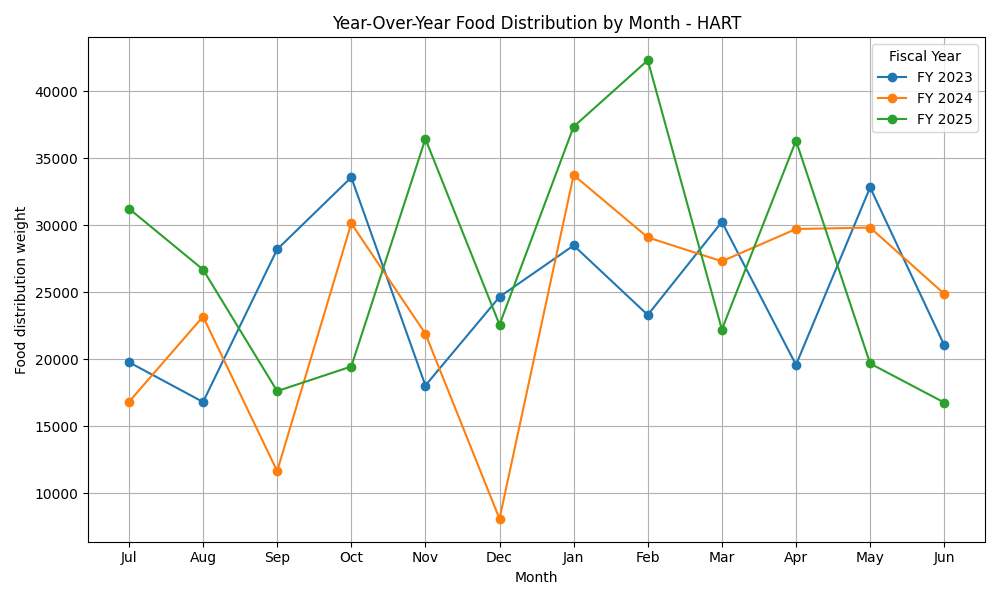
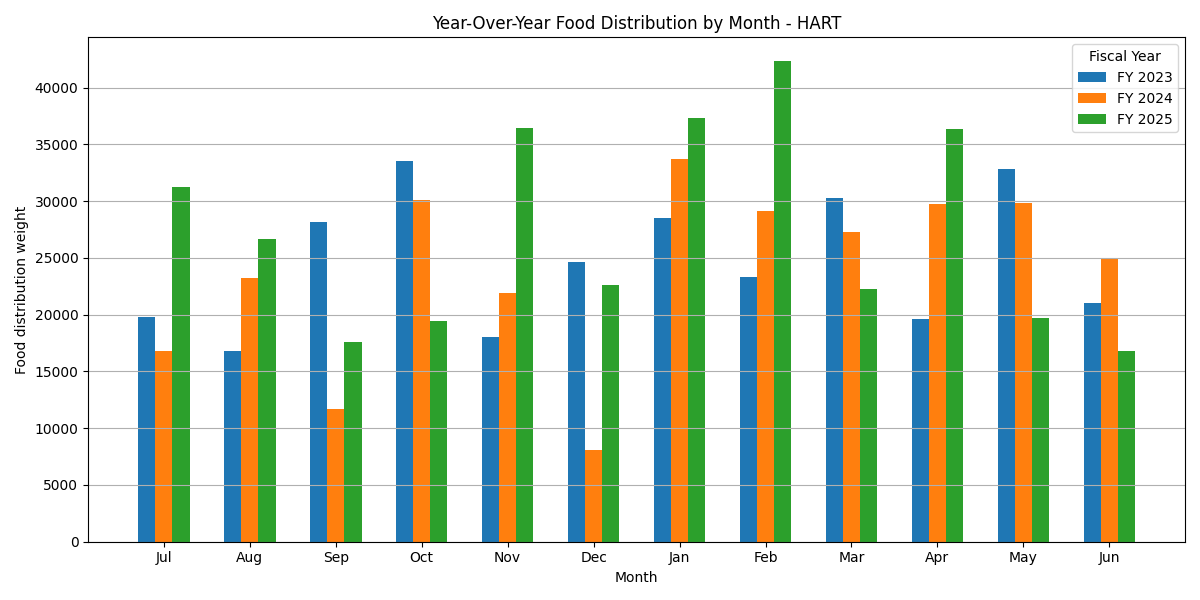
updated year over year plots to bar graphs

diff --git a/src/plot_year_over_year.py b/src/plot_year_over_year.py
@@ -31,26 +31,37 @@ def plot_all_counties():
     # we want to plot from Jul of one year to Jun of the next year
     month_pos = {7:0,8:1,9:2,10:3,11:4,12:5,1:6,2:7,3:8,4:9,5:10,6:11}
     month_labels = ['Jul', 'Aug', 'Sep', 'Oct', 'Nov', 'Dec', 'Jan', 'Feb', 'Mar', 'Apr', 'May', 'Jun']
+    bar_width = 0.20
+    x_base = list(range(12))
 
     for county in unique_counties:
         county_df = df[df["County"] == county].copy()
 
-        plt.figure(figsize=(10,6))
+        plt.figure(figsize=(12,6))
 
-        for fy in ['FY 2023', 'FY 2024', 'FY 2025']:
+        for i, fy in enumerate (['FY 2023', 'FY 2024', 'FY 2025']):
             fy_data = county_df[county_df['Fiscal Year'] == fy]
-            x = fy_data["Fiscal Month"].map(month_pos)
-            # here, each element of x is paired with each element of fy_data["Weight"],
-            # internally, i ranges from 0 to length of fy_data - 1, and
-            # this plots a point at x[i], fy_data["Weight"][i]
-            plt.plot(x, fy_data['Weight'], marker='o', label=fy)
 
-        plt.xticks(ticks=list(month_pos.values()), labels=month_labels)
+            # initialize y values for all months to 0, so missing data values are taken care of
+            y_values = [0] * 12
+            for index, row in fy_data.iterrows():
+                month_index = month_pos[row["Fiscal Month"]]
+                y_values[month_index] = row["Weight"]
+
+            # for each year, calculate list of all x positions where we want to plot a bar,
+            # positions are offset by (i - 1) * bar_width to group bars for year side-by-side 
+            # ex. positions for 2023 are shifted left by bar_width,
+            # Jul 2023, Aug 2023, . . . would be 0 - bar_width, 1 - bar_width, . . . 
+            x_positions = [x + (i - 1) * bar_width for x in x_base]
+            # here, each element of x positions is paired with each element of y values
+            plt.bar(x_positions, y_values, width=bar_width, label=fy)
+
+        plt.xticks(ticks = x_base, labels = month_labels)
         plt.xlabel("Month")
         plt.ylabel("Food distribution weight")
         plt.title(f"Year-Over-Year Food Distribution by Month - {county}")
         plt.legend(title = "Fiscal Year")
-        plt.grid(True)
+        plt.grid(True, axis = 'y')
         plt.tight_layout()
 
         # Save plot to file
